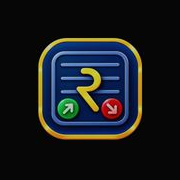
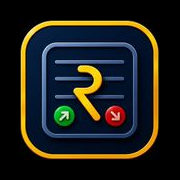
chore: update branding and app assets
- Update application logo and icons
- Refresh preloader styling and color scheme
- Bump project version to 2.5.0

diff --git a/index.html b/index.html
@@ -140,10 +140,10 @@
   </head>
   <body class="bg-[var(--theme-bg,#070E18)] text-[var(--theme-text,#F8FAFC)] font-sans antialiased min-h-screen selection:bg-[var(--theme-primary,#38BDF8)] selection:text-[#040D17]">
     <div id="root">
-      <div id="app-preloader" style="position: fixed; inset: 0; background: #060606; display: flex; flex-direction: column; align-items: center; justify-content: center; z-index: 9999; font-family: -apple-system, BlinkMacSystemFont, 'Segoe UI', Roboto, sans-serif; user-select: none;">
+      <div id="app-preloader" style="position: fixed; inset: 0; background: #000000; display: flex; flex-direction: column; align-items: center; justify-content: center; z-index: 9999; font-family: -apple-system, BlinkMacSystemFont, 'Segoe UI', Roboto, sans-serif; user-select: none;">
         <div style="position: relative; margin-bottom: 16px;">
-          <div style="width: 56px; height: 56px; border-radius: 14px; background: #060606; border: 1px solid rgba(56, 189, 248, 0.35); box-shadow: 0 10px 25px -5px rgba(0, 0, 0, 0.7), 0 0 20px -5px rgba(56, 189, 248, 0.25); display: flex; align-items: center; justify-content: center; padding: 4px; box-sizing: border-box; overflow: hidden;">
-            <img src="/daily-Khata-Pro.png" alt="Daily Khata Pro" width="48" height="48" style="width: 100%; height: 100%; object-fit: contain; display: block;" />
+          <div style="width: 58px; height: 58px; border-radius: 14px; background: #000000; border: 1px solid rgba(245, 158, 11, 0.4); box-shadow: 0 10px 25px -5px rgba(0, 0, 0, 0.8), 0 0 20px -5px rgba(245, 158, 11, 0.3); display: flex; align-items: center; justify-content: center; padding: 4px; box-sizing: border-box; overflow: hidden;">
+            <img src="/daily-Khata-Pro.png" alt="Daily Khata Pro" width="50" height="50" style="width: 100%; height: 100%; object-fit: contain; display: block;" />
           </div>
         </div>
         <div style="font-size: 19px; font-weight: 700; color: #FFFFFF; letter-spacing: -0.02em; display: flex; align-items: center; gap: 4px;">

diff --git a/src/components/Header.tsx b/src/components/Header.tsx
@@ -47,6 +47,7 @@ import { HasVoltLogo } from './HasVoltLogo';
 import { AppTheme, AppLanguage, AppViewMode, AppLayout } from '../types';
 import { TRANSLATIONS } from '../utils/translations';
 import { getAppTranslation } from '../utils/appTranslations';
+import { APP_VERSION_TAG } from '../utils/version';
 
 interface HeaderProps {
   currentTab?: NavTab;
@@ -598,7 +599,7 @@ export const Header: React.FC<HeaderProps> = ({
                                 </span>
                               </div>
                               <span className="text-[9.5px] font-mono font-bold text-[#10B981] bg-[#10B981]/15 px-2 py-0.5 rounded-full border border-[#10B981]/30">
-                                v2.4.0
+                                {APP_VERSION_TAG}
                               </span>
                             </button>
                           </div>
@@ -982,7 +983,7 @@ export const Header: React.FC<HeaderProps> = ({
                         </span>
                       </div>
                       <span className="text-[9.5px] font-mono font-bold text-[#10B981] bg-[#10B981]/15 px-2 py-0.5 rounded-full border border-[#10B981]/30">
-                        v2.4.0
+                        {APP_VERSION_TAG}
                       </span>
                     </button>
                   </div>

diff --git a/src/components/SettingsModal.tsx b/src/components/SettingsModal.tsx
@@ -56,6 +56,7 @@ import { ConfirmModal } from './ConfirmModal';
 import { HasVoltLogo } from './HasVoltLogo';
 import { TRANSLATIONS } from '../utils/translations';
 import { getAppTranslation } from '../utils/appTranslations';
+import { APP_VERSION_FULL, APP_VERSION_FOOTER } from '../utils/version';
 
 interface SettingsModalProps {
   isOpen: boolean;
@@ -974,7 +975,7 @@ export const SettingsModal: React.FC<SettingsModalProps> = ({
                     </span>
                   </div>
                   <span className="text-[11px] font-mono font-bold px-2 py-0.5 rounded-md bg-[#10B981]/15 text-[#10B981] border border-[#10B981]/30">
-                    v2.4.0 (Production)
+                    {APP_VERSION_FULL}
                   </span>
                 </div>
 
@@ -1325,7 +1326,7 @@ export const SettingsModal: React.FC<SettingsModalProps> = ({
               </div>
 
               <div className="pt-2 text-[11.5px] text-[#94A3B8] border-t border-[var(--theme-border,#213E61)]">
-                Version 3.0.0 · Production Ready · Offline First · Free Open Source
+                {APP_VERSION_FOOTER}
               </div>
             </div>
           )}

diff --git a/src/components/InstallModal.tsx b/src/components/InstallModal.tsx
@@ -24,6 +24,7 @@ import {
 } from 'lucide-react';
 import { HasVoltLogo } from './HasVoltLogo';
 import { AppLanguage } from '../types';
+import { APP_VERSION_TAG } from '../utils/version';
 
 interface BeforeInstallPromptEvent extends Event {
   readonly platforms: Array<string>;
@@ -446,7 +447,7 @@ export const InstallModal: React.FC<InstallModalProps> = ({
                 <div>
                   <div className="font-bold text-[15px] text-[#F8FAFC] flex items-center gap-2">
                     <span>Daily Khata Pro</span>
-                    <span className="text-[9.5px] font-bold px-1.5 py-0.5 rounded bg-[#38BDF8]/20 text-[#38BDF8] border border-[#38BDF8]/30">v2.5</span>
+                    <span className="text-[9.5px] font-bold px-1.5 py-0.5 rounded bg-[#38BDF8]/20 text-[#38BDF8] border border-[#38BDF8]/30">{APP_VERSION_TAG}</span>
                   </div>
                   <div className="text-[12px] text-[#94A3B8] flex items-center gap-1.5 mt-0.5">
                     <WifiOff className="w-3.5 h-3.5 text-[#10B981]" />

diff --git a/src/components/AboutPage.tsx b/src/components/AboutPage.tsx
@@ -20,6 +20,7 @@ import {
 } from 'lucide-react';
 import { AppLanguage } from '../types';
 import { getPageTranslation } from '../utils/pageTranslations';
+import { APP_RELEASE_LABEL } from '../utils/version';
 
 interface AboutPageProps {
   onBack: () => void;
@@ -75,7 +76,7 @@ export const AboutPage: React.FC<AboutPageProps> = ({
           <div className="space-y-1.5 min-w-0">
             <div className="inline-flex items-center gap-1.5 px-2.5 py-0.5 rounded-full bg-[#10B981]/15 text-[#10B981] border border-[#10B981]/30 text-[11px] font-mono font-bold">
               <ShieldCheck className="w-3.5 h-3.5" />
-              <span>Official Release v1.0 • 100% Offline &amp; Private</span>
+              <span>{APP_RELEASE_LABEL}</span>
             </div>
             <h1 className="font-serif-display text-[24px] sm:text-[30px] font-bold text-[#F8FAFC] tracking-tight">
               {t.title}

diff --git a/src/components/SupportFeedbackModal.tsx b/src/components/SupportFeedbackModal.tsx
@@ -19,6 +19,7 @@ import {
 } from 'lucide-react';
 import { HasVoltLogo } from './HasVoltLogo';
 import { AppLanguage } from '../types';
+import { APP_VERSION_TAG } from '../utils/version';
 
 export type SupportTab = 'help' | 'bug' | 'suggestion';
 
@@ -86,7 +87,7 @@ export const SupportFeedbackModal: React.FC<SupportFeedbackModalProps> = ({
     const ua = navigator.userAgent;
     const isMobile = /Android|webOS|iPhone|iPad|iPod|BlackBerry|IEMobile|Opera Mini/i.test(ua);
     const screenRes = `${window.innerWidth}x${window.innerHeight}`;
-    return `Daily Khata Pro v3.0 | ${isMobile ? 'Mobile' : 'Desktop'} | Screen: ${screenRes} | UserAgent: ${ua.substring(0, 80)}...`;
+    return `Daily Khata Pro ${APP_VERSION_TAG} | ${isMobile ? 'Mobile' : 'Desktop'} | Screen: ${screenRes} | UserAgent: ${ua.substring(0, 80)}...`;
   };
 
   // 1. Email Handler strictly sending to daily-Khata-Pro@gmail.com

diff --git a/src/components/SupportPage.tsx b/src/components/SupportPage.tsx
@@ -22,6 +22,7 @@ import {
 } from 'lucide-react';
 import { HasVoltLogo } from './HasVoltLogo';
 import { AppLanguage } from '../types';
+import { APP_VERSION_TAG } from '../utils/version';
 
 export type SupportTab = 'help' | 'bug' | 'suggestion';
 
@@ -95,7 +96,7 @@ export const SupportPage: React.FC<SupportPageProps> = ({
     const ua = navigator.userAgent;
     const isMobile = /Android|webOS|iPhone|iPad|iPod|BlackBerry|IEMobile|Opera Mini/i.test(ua);
     const screenRes = `${window.innerWidth}x${window.innerHeight}`;
-    return `Daily Khata Pro v3.0 | ${isMobile ? 'Mobile' : 'Desktop'} | Screen: ${screenRes} | UA: ${ua.substring(0, 75)}...`;
+    return `Daily Khata Pro ${APP_VERSION_TAG} | ${isMobile ? 'Mobile' : 'Desktop'} | Screen: ${screenRes} | UA: ${ua.substring(0, 75)}...`;
   };
 
   // 1. Email Handler strictly using daily-Khata-Pro@gmail.com

diff --git a/src/utils/version.ts b/src/utils/version.ts
@@ -1,0 +1,11 @@
+/**
+ * Centralized Application Version Single Source of Truth
+ * Ensures 100% version consistency across all screens, modals, headers, and diagnostics.
+ */
+
+export const APP_VERSION = '2.5.0';
+export const APP_VERSION_TAG = 'v2.5.0';
+export const APP_RELEASE_STAGE = 'Production';
+export const APP_VERSION_FULL = `v${APP_VERSION} (${APP_RELEASE_STAGE})`;
+export const APP_RELEASE_LABEL = `Official Release v${APP_VERSION} • 100% Offline & Private`;
+export const APP_VERSION_FOOTER = `Version ${APP_VERSION} · Production Ready · Offline First · Free Open Source`;

diff --git a/public/sw.js b/public/sw.js
@@ -4,12 +4,13 @@
  * Comprehensive PWA Offline Caching, Background Sync & Push Capabilities
  */
 
-const CACHE_NAME = 'daily-khata-pro-v2.4.0';
+const CACHE_NAME = 'daily-khata-pro-v2.5.0';
 const STATIC_ASSETS = [
   '/',
   '/index.html',
   '/manifest.json',
   '/daily-Khata-Pro.png',
+  '/daily-Khata-Pro-aap-icon.png',
   '/icon-192.png',
   '/icon-512.png',
   '/icons/icon-192x192.png',
